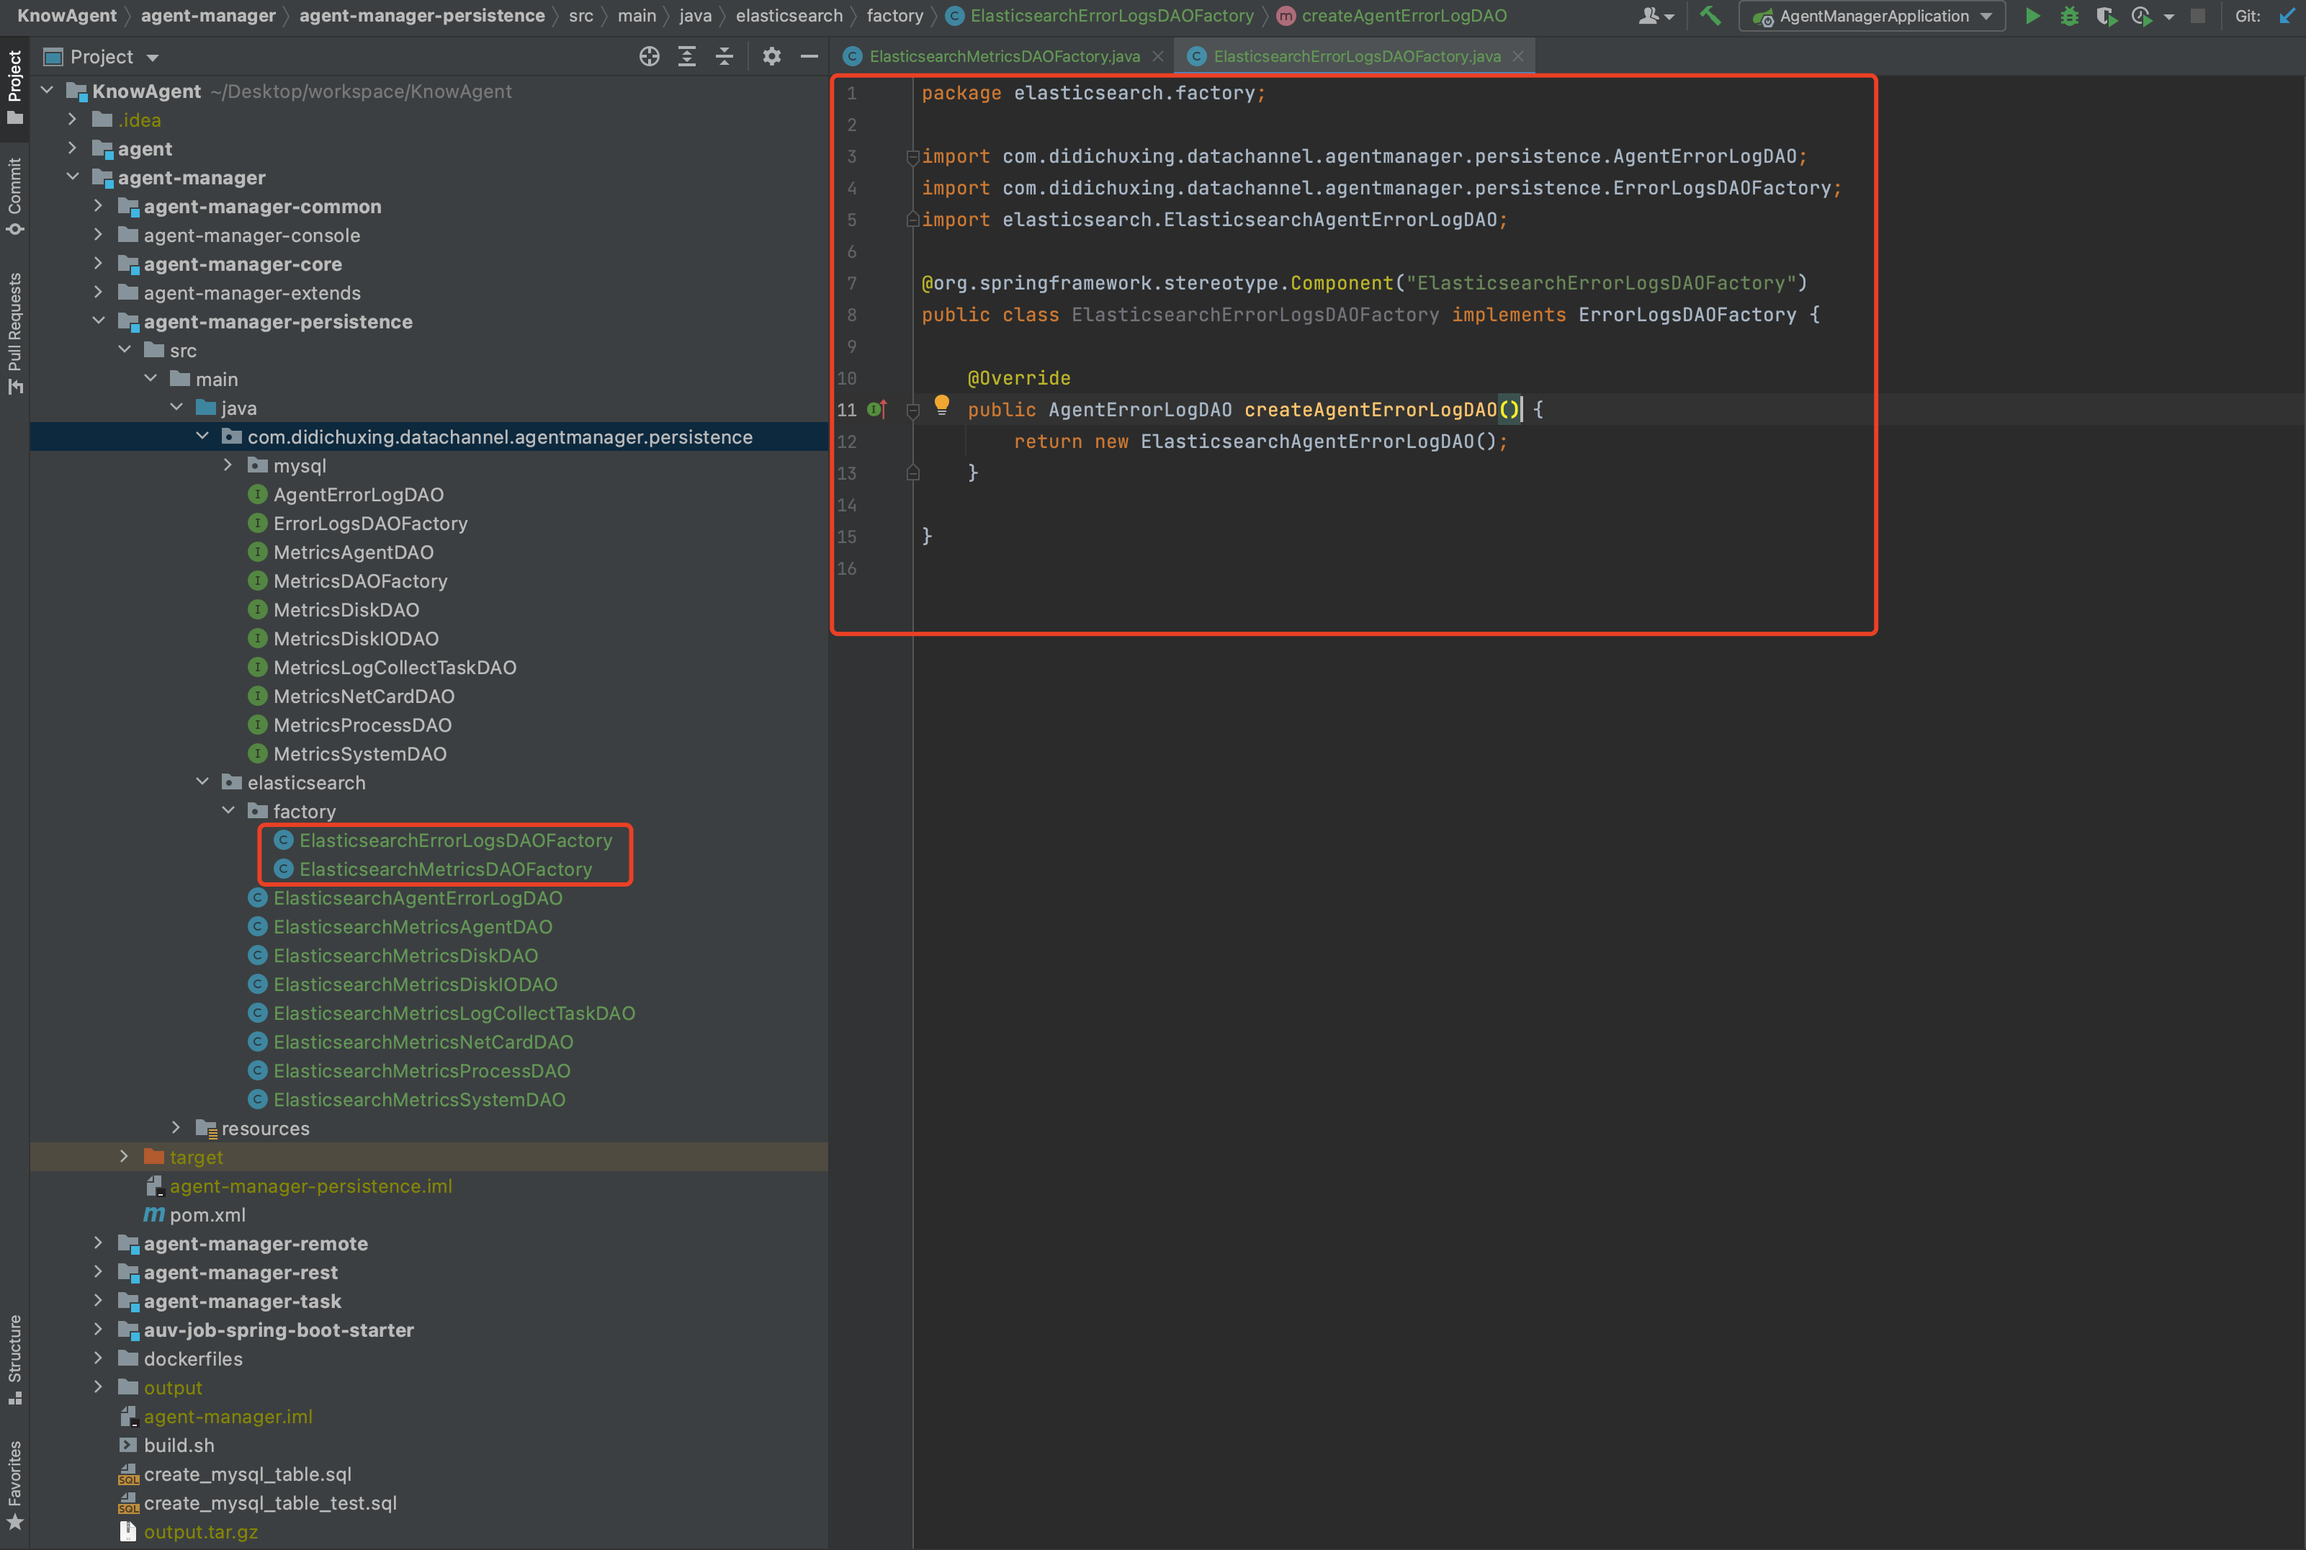
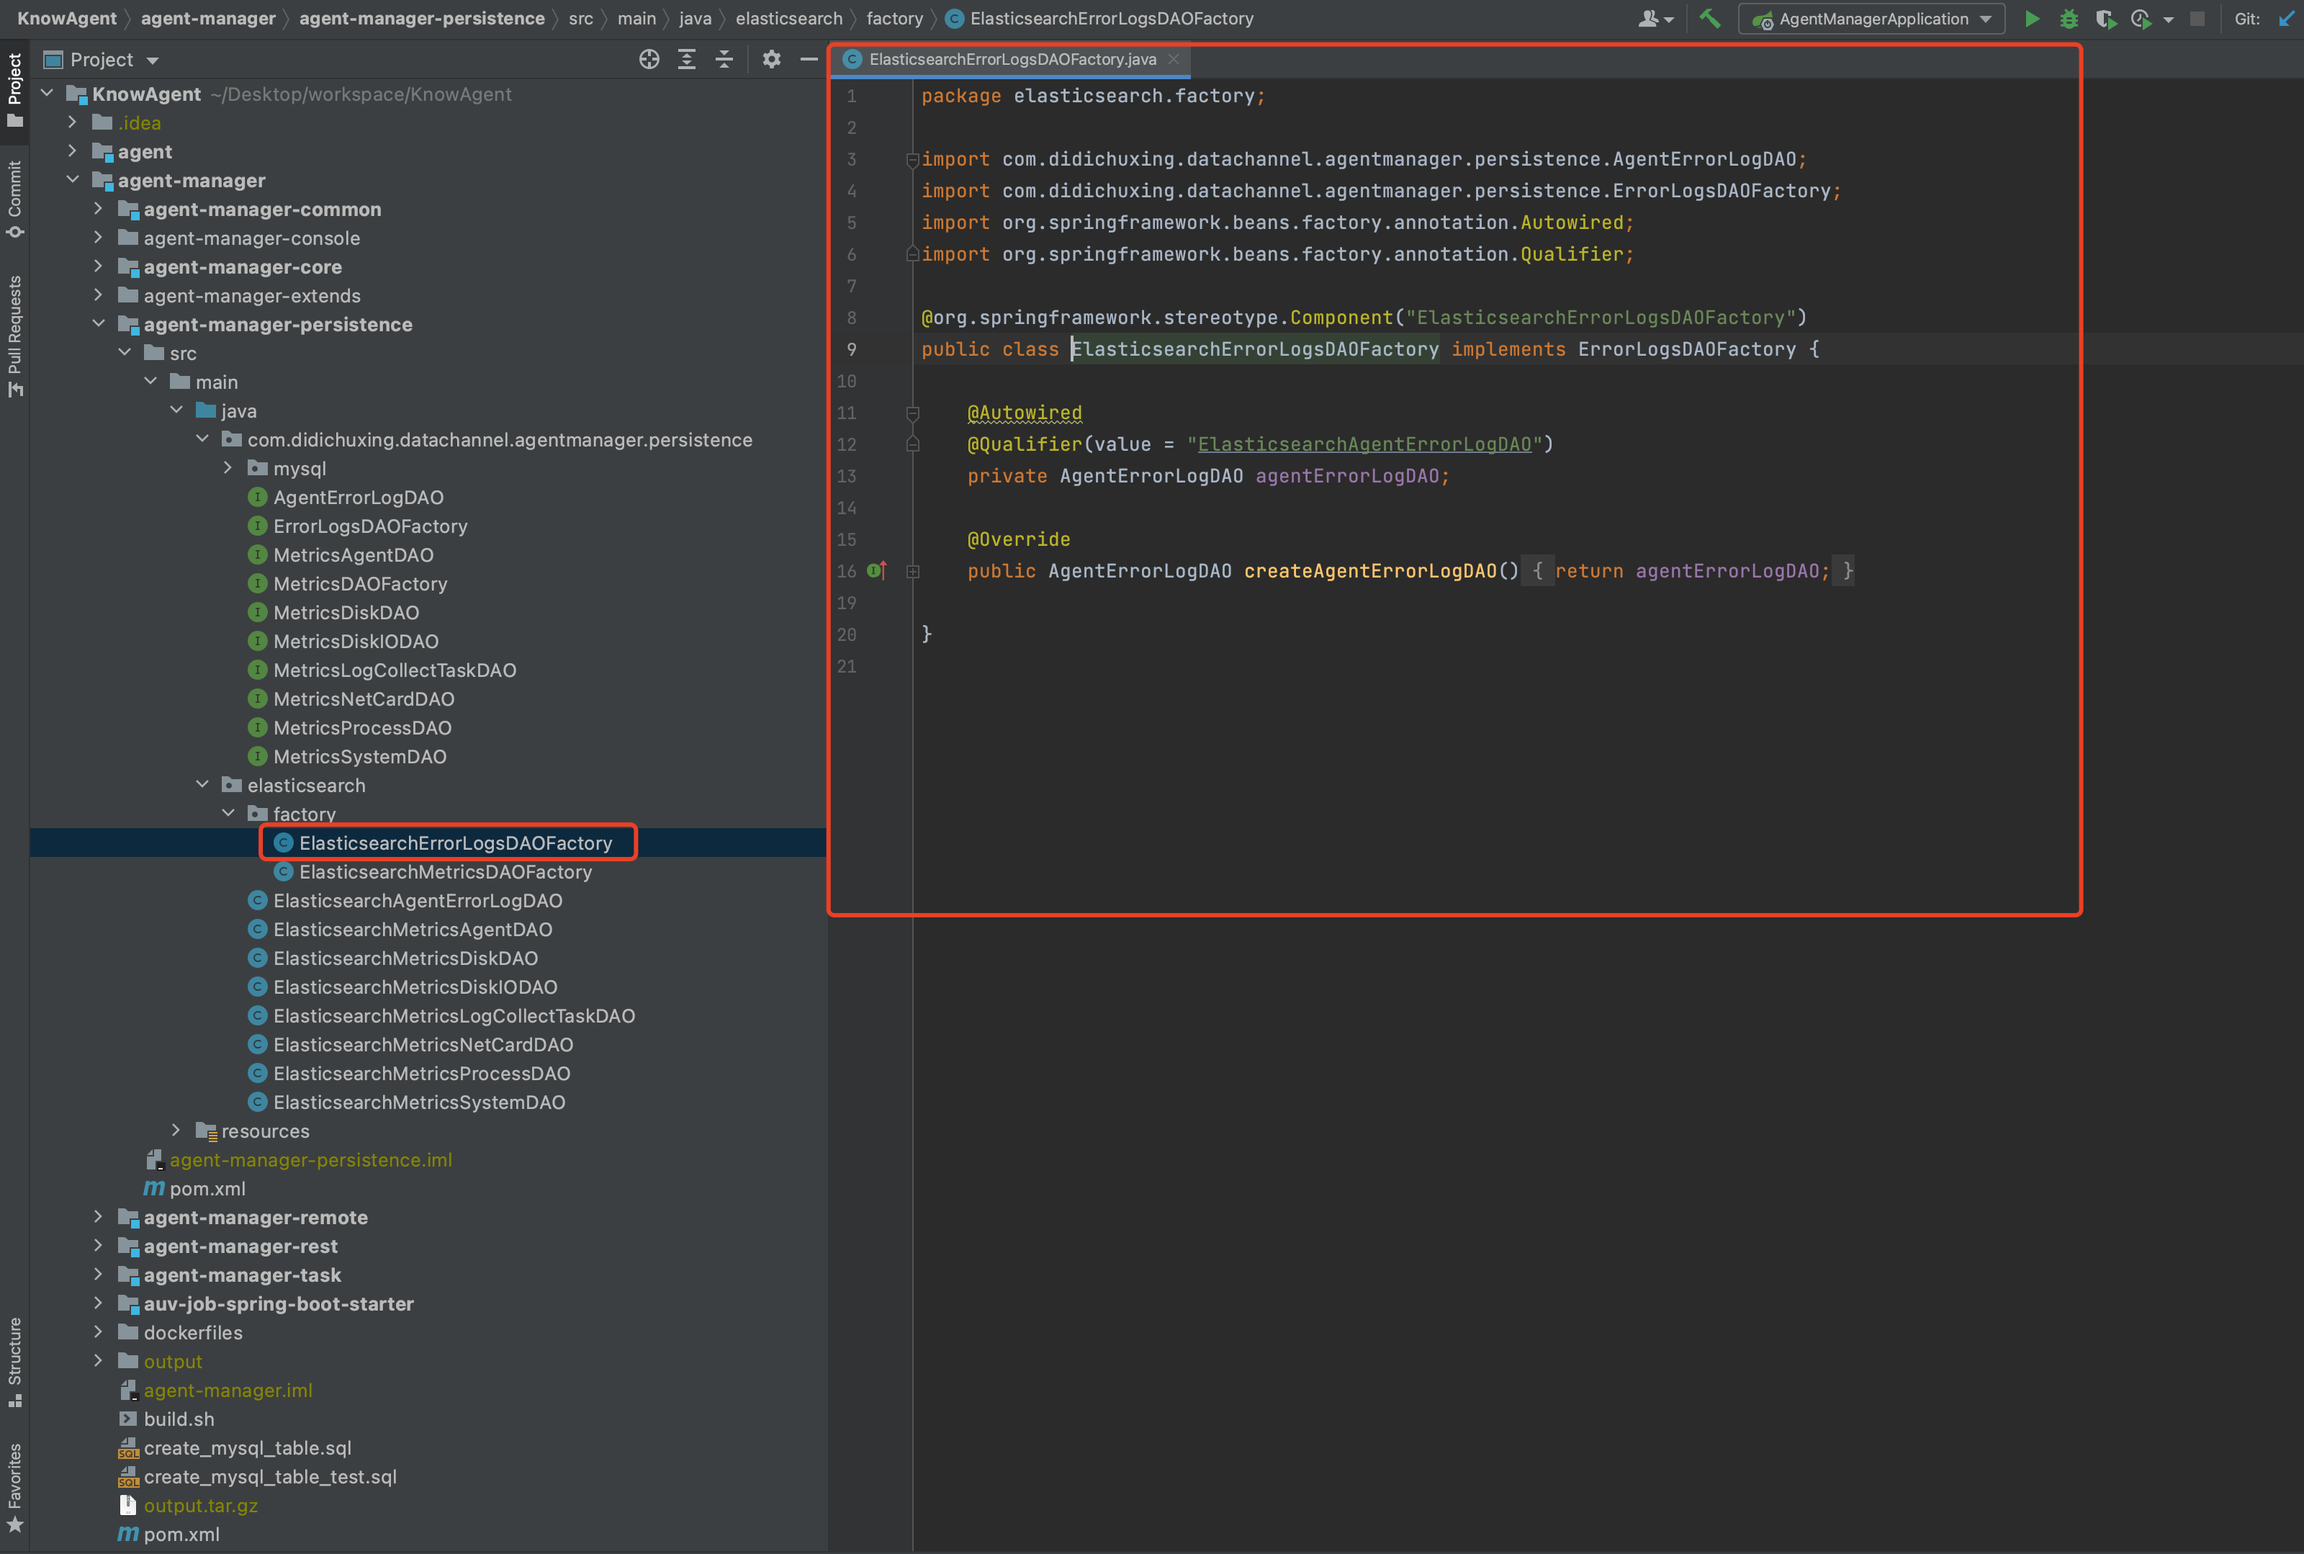
1.）完成《如何替换Agent的Metrics与Error Logs数据存储引擎以纳管更大的Agent集群》.

diff --git a/agent-manager/agent-manager-persistence/src/main/java/com/didichuxing/datachannel/agentmanager/persistence/elasticsearch/ElasticsearchMetricsSystemDAO.java b/agent-manager/agent-manager-persistence/src/main/java/com/didichuxing/datachannel/agentmanager/persistence/elasticsearch/ElasticsearchMetricsSystemDAO.java
@@ -1,24 +1,19 @@
-package elasticsearch;
+package com.didichuxing.datachannel.agentmanager.persistence.elasticsearch;
 
-import com.didichuxing.datachannel.agentmanager.common.bean.po.metrics.MetricsAgentPO;
 import com.didichuxing.datachannel.agentmanager.common.bean.po.metrics.MetricsLogCollectTaskTopPO;
+import com.didichuxing.datachannel.agentmanager.common.bean.po.metrics.MetricsSystemPO;
 import com.didichuxing.datachannel.agentmanager.common.bean.vo.metrics.MetricPoint;
-import com.didichuxing.datachannel.agentmanager.persistence.MetricsAgentDAO;
+import com.didichuxing.datachannel.agentmanager.persistence.MetricsSystemDAO;
 import org.springframework.stereotype.Repository;
 
 import java.util.List;
 import java.util.Map;
 
-@Repository(value = "ElasticsearchMetricsAgentDAO")
-public class ElasticsearchMetricsAgentDAO implements MetricsAgentDAO {
+@Repository(value = "ElasticsearchMetricsSystemDAO")
+public class ElasticsearchMetricsSystemDAO implements MetricsSystemDAO {
     @Override
-    public int insertSelective(MetricsAgentPO record) {
+    public int insertSelective(MetricsSystemPO record) {
         return 0;
-    }
-
-    @Override
-    public MetricsAgentPO selectByPrimaryKey(Long id) {
-        return null;
     }
 
     @Override
@@ -33,11 +28,6 @@ public class ElasticsearchMetricsAgentDAO implements MetricsAgentDAO {
 
     @Override
     public List<MetricPoint> getSingleChatStatistic(Map<String, Object> params) {
-        return null;
-    }
-
-    @Override
-    public Double getSumMetricAllAgents(Map<String, Object> params) {
         return null;
     }
 
@@ -62,17 +52,7 @@ public class ElasticsearchMetricsAgentDAO implements MetricsAgentDAO {
     }
 
     @Override
-    public Object getAggregationQueryPerHostNameFromMetricsAgent(Map<String, Object> params) {
-        return null;
-    }
-
-    @Override
-    public MetricsAgentPO getLastRecord(Map<String, Object> params) {
-        return null;
-    }
-
-    @Override
-    public List<MetricsAgentPO> getErrorMetrics(Map<String, Object> params) {
+    public MetricsSystemPO getLastRecord(Map<String, Object> params) {
         return null;
     }
 }

diff --git a/agent-manager/agent-manager-persistence/src/main/java/com/didichuxing/datachannel/agentmanager/persistence/elasticsearch/ElasticsearchMetricsProcessDAO.java b/agent-manager/agent-manager-persistence/src/main/java/com/didichuxing/datachannel/agentmanager/persistence/elasticsearch/ElasticsearchMetricsProcessDAO.java
@@ -1,18 +1,18 @@
-package elasticsearch;
+package com.didichuxing.datachannel.agentmanager.persistence.elasticsearch;
 
 import com.didichuxing.datachannel.agentmanager.common.bean.po.metrics.MetricsLogCollectTaskTopPO;
-import com.didichuxing.datachannel.agentmanager.common.bean.po.metrics.MetricsSystemPO;
+import com.didichuxing.datachannel.agentmanager.common.bean.po.metrics.MetricsProcessPO;
 import com.didichuxing.datachannel.agentmanager.common.bean.vo.metrics.MetricPoint;
-import com.didichuxing.datachannel.agentmanager.persistence.MetricsSystemDAO;
+import com.didichuxing.datachannel.agentmanager.persistence.MetricsProcessDAO;
 import org.springframework.stereotype.Repository;
 
 import java.util.List;
 import java.util.Map;
 
-@Repository(value = "ElasticsearchMetricsSystemDAO")
-public class ElasticsearchMetricsSystemDAO implements MetricsSystemDAO {
+@Repository(value = "ElasticsearchMetricsProcessDAO")
+public class ElasticsearchMetricsProcessDAO implements MetricsProcessDAO {
     @Override
-    public int insertSelective(MetricsSystemPO record) {
+    public int insertSelective(MetricsProcessPO record) {
         return 0;
     }
 
@@ -28,6 +28,11 @@ public class ElasticsearchMetricsSystemDAO implements MetricsSystemDAO {
 
     @Override
     public List<MetricPoint> getSingleChatStatistic(Map<String, Object> params) {
+        return null;
+    }
+
+    @Override
+    public Double getSumMetricAllAgents(Map<String, Object> params) {
         return null;
     }
 
@@ -52,7 +57,12 @@ public class ElasticsearchMetricsSystemDAO implements MetricsSystemDAO {
     }
 
     @Override
-    public MetricsSystemPO getLastRecord(Map<String, Object> params) {
+    public MetricsProcessPO getLastRecord(Map<String, Object> params) {
+        return null;
+    }
+
+    @Override
+    public Object getAggregationQueryPerHostNameFromMetricsProcess(Map<String, Object> params) {
         return null;
     }
 }

diff --git a/agent-manager/agent-manager-persistence/src/main/java/com/didichuxing/datachannel/agentmanager/persistence/elasticsearch/ElasticsearchMetricsAgentDAO.java b/agent-manager/agent-manager-persistence/src/main/java/com/didichuxing/datachannel/agentmanager/persistence/elasticsearch/ElasticsearchMetricsAgentDAO.java
@@ -1,19 +1,24 @@
-package elasticsearch;
+package com.didichuxing.datachannel.agentmanager.persistence.elasticsearch;
 
+import com.didichuxing.datachannel.agentmanager.common.bean.po.metrics.MetricsAgentPO;
 import com.didichuxing.datachannel.agentmanager.common.bean.po.metrics.MetricsLogCollectTaskTopPO;
-import com.didichuxing.datachannel.agentmanager.common.bean.po.metrics.MetricsProcessPO;
 import com.didichuxing.datachannel.agentmanager.common.bean.vo.metrics.MetricPoint;
-import com.didichuxing.datachannel.agentmanager.persistence.MetricsProcessDAO;
+import com.didichuxing.datachannel.agentmanager.persistence.MetricsAgentDAO;
 import org.springframework.stereotype.Repository;
 
 import java.util.List;
 import java.util.Map;
 
-@Repository(value = "ElasticsearchMetricsProcessDAO")
-public class ElasticsearchMetricsProcessDAO implements MetricsProcessDAO {
+@Repository(value = "ElasticsearchMetricsAgentDAO")
+public class ElasticsearchMetricsAgentDAO implements MetricsAgentDAO {
     @Override
-    public int insertSelective(MetricsProcessPO record) {
+    public int insertSelective(MetricsAgentPO record) {
         return 0;
+    }
+
+    @Override
+    public MetricsAgentPO selectByPrimaryKey(Long id) {
+        return null;
     }
 
     @Override
@@ -57,12 +62,17 @@ public class ElasticsearchMetricsProcessDAO implements MetricsProcessDAO {
     }
 
     @Override
-    public MetricsProcessPO getLastRecord(Map<String, Object> params) {
+    public Object getAggregationQueryPerHostNameFromMetricsAgent(Map<String, Object> params) {
         return null;
     }
 
     @Override
-    public Object getAggregationQueryPerHostNameFromMetricsProcess(Map<String, Object> params) {
+    public MetricsAgentPO getLastRecord(Map<String, Object> params) {
+        return null;
+    }
+
+    @Override
+    public List<MetricsAgentPO> getErrorMetrics(Map<String, Object> params) {
         return null;
     }
 }

diff --git a/agent-manager/agent-manager-rest/src/main/java/com/didichuxing/datachannel/agentmanager/rest/StorageFactoryBuilder.java b/agent-manager/agent-manager-rest/src/main/java/com/didichuxing/datachannel/agentmanager/rest/StorageFactoryBuilder.java
@@ -10,14 +10,14 @@ public class StorageFactoryBuilder {
 
     @Autowired
     @Qualifier(value = "MySQLMetricsDAOFactory")
-    private MetricsDAOFactory mySQLMetricsDAOFactory;
+    private MetricsDAOFactory metricsDAOFactory;
 
     @Autowired
     @Qualifier(value = "MySQLErrorLogsDAOFactory")
     private ErrorLogsDAOFactory errorLogsDAOFactory;
 
     public MetricsDAOFactory buildMetricsDAOFactory() {
-        return mySQLMetricsDAOFactory;
+        return metricsDAOFactory;
     }
 
     public ErrorLogsDAOFactory buildErrorLogsDAOFactory() {

diff --git a/agent-manager/agent-manager-persistence/src/main/java/com/didichuxing/datachannel/agentmanager/persistence/mysql/factory/MySQLMetricsDAOFactory.java b/agent-manager/agent-manager-persistence/src/main/java/com/didichuxing/datachannel/agentmanager/persistence/mysql/factory/MySQLMetricsDAOFactory.java
@@ -1,7 +1,6 @@
 package com.didichuxing.datachannel.agentmanager.persistence.mysql.factory;
 
 import com.didichuxing.datachannel.agentmanager.persistence.*;
-import com.didichuxing.datachannel.agentmanager.persistence.mysql.*;
 import org.springframework.beans.factory.annotation.Autowired;
 import org.springframework.beans.factory.annotation.Qualifier;
 

diff --git a/agent-manager/agent-manager-persistence/src/main/java/com/didichuxing/datachannel/agentmanager/persistence/elasticsearch/ElasticsearchMetricsLogCollectTaskDAO.java b/agent-manager/agent-manager-persistence/src/main/java/com/didichuxing/datachannel/agentmanager/persistence/elasticsearch/ElasticsearchMetricsLogCollectTaskDAO.java
@@ -1,4 +1,4 @@
-package elasticsearch;
+package com.didichuxing.datachannel.agentmanager.persistence.elasticsearch;
 
 import com.didichuxing.datachannel.agentmanager.common.bean.po.metrics.MetricsLogCollectTaskIdTopPO;
 import com.didichuxing.datachannel.agentmanager.common.bean.po.metrics.MetricsLogCollectTaskPO;

diff --git a/agent-manager/agent-manager-persistence/src/main/java/com/didichuxing/datachannel/agentmanager/persistence/elasticsearch/ElasticsearchMetricsNetCardDAO.java b/agent-manager/agent-manager-persistence/src/main/java/com/didichuxing/datachannel/agentmanager/persistence/elasticsearch/ElasticsearchMetricsNetCardDAO.java
@@ -1,4 +1,4 @@
-package elasticsearch;
+package com.didichuxing.datachannel.agentmanager.persistence.elasticsearch;
 
 import com.didichuxing.datachannel.agentmanager.common.bean.po.metrics.MetricsNetCardPO;
 import com.didichuxing.datachannel.agentmanager.common.bean.po.metrics.MetricsNetCardTopPO;

diff --git a/agent-manager/agent-manager-persistence/src/main/java/com/didichuxing/datachannel/agentmanager/persistence/elasticsearch/ElasticsearchMetricsDiskIODAO.java b/agent-manager/agent-manager-persistence/src/main/java/com/didichuxing/datachannel/agentmanager/persistence/elasticsearch/ElasticsearchMetricsDiskIODAO.java
@@ -1,4 +1,4 @@
-package elasticsearch;
+package com.didichuxing.datachannel.agentmanager.persistence.elasticsearch;
 
 import com.didichuxing.datachannel.agentmanager.common.bean.po.metrics.MetricsDiskIOPO;
 import com.didichuxing.datachannel.agentmanager.common.bean.po.metrics.MetricsDiskIOTopPO;

diff --git a/agent-manager/agent-manager-persistence/src/main/java/com/didichuxing/datachannel/agentmanager/persistence/elasticsearch/ElasticsearchMetricsDiskDAO.java b/agent-manager/agent-manager-persistence/src/main/java/com/didichuxing/datachannel/agentmanager/persistence/elasticsearch/ElasticsearchMetricsDiskDAO.java
@@ -1,4 +1,4 @@
-package elasticsearch;
+package com.didichuxing.datachannel.agentmanager.persistence.elasticsearch;
 
 import com.didichuxing.datachannel.agentmanager.common.bean.po.metrics.MetricsDiskPO;
 import com.didichuxing.datachannel.agentmanager.common.bean.po.metrics.MetricsDiskTopPO;

diff --git a/agent-manager/agent-manager-persistence/src/main/java/com/didichuxing/datachannel/agentmanager/persistence/elasticsearch/factory/ElasticsearchErrorLogsDAOFactory.java b/agent-manager/agent-manager-persistence/src/main/java/com/didichuxing/datachannel/agentmanager/persistence/elasticsearch/factory/ElasticsearchErrorLogsDAOFactory.java
@@ -1,4 +1,4 @@
-package elasticsearch.factory;
+package com.didichuxing.datachannel.agentmanager.persistence.elasticsearch.factory;
 
 import com.didichuxing.datachannel.agentmanager.persistence.AgentErrorLogDAO;
 import com.didichuxing.datachannel.agentmanager.persistence.ErrorLogsDAOFactory;

diff --git a/agent-manager/agent-manager-persistence/src/main/java/com/didichuxing/datachannel/agentmanager/persistence/elasticsearch/ElasticsearchAgentErrorLogDAO.java b/agent-manager/agent-manager-persistence/src/main/java/com/didichuxing/datachannel/agentmanager/persistence/elasticsearch/ElasticsearchAgentErrorLogDAO.java
@@ -1,4 +1,4 @@
-package elasticsearch;
+package com.didichuxing.datachannel.agentmanager.persistence.elasticsearch;
 
 import com.didichuxing.datachannel.agentmanager.common.bean.po.agent.ErrorLogPO;
 import com.didichuxing.datachannel.agentmanager.persistence.AgentErrorLogDAO;

diff --git a/agent-manager/agent-manager-persistence/src/main/java/com/didichuxing/datachannel/agentmanager/persistence/elasticsearch/factory/ElasticsearchMetricsDAOFactory.java b/agent-manager/agent-manager-persistence/src/main/java/com/didichuxing/datachannel/agentmanager/persistence/elasticsearch/factory/ElasticsearchMetricsDAOFactory.java
@@ -1,4 +1,4 @@
-package elasticsearch.factory;
+package com.didichuxing.datachannel.agentmanager.persistence.elasticsearch.factory;
 
 import com.didichuxing.datachannel.agentmanager.persistence.*;
 import org.springframework.beans.factory.annotation.Autowired;
